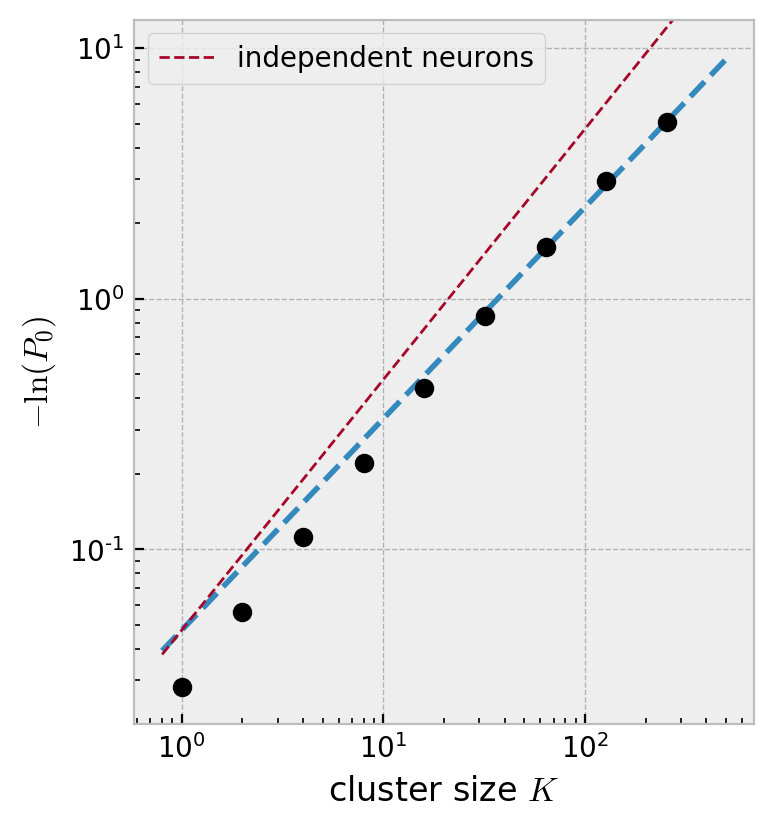
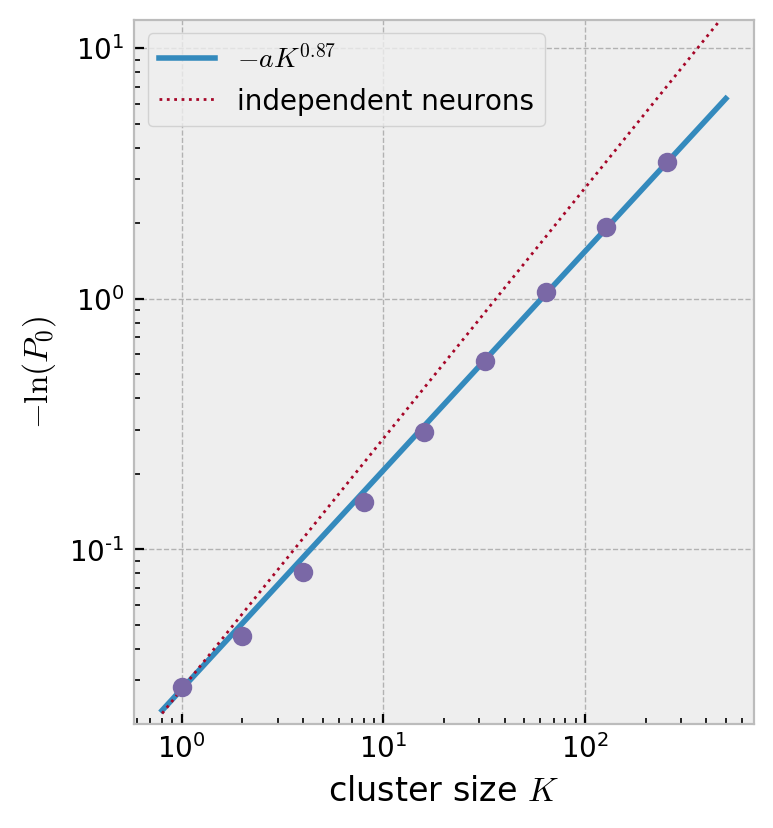
Update README.md

diff --git a/Notebook.md b/Notebook.md
@@ -1,9 +1,11 @@
 
 
 ```python
+import matplotlib
 import matplotlib.pyplot as plt
 import numpy as np
 from scipy.optimize import curve_fit
+import json
 
 plt.style.use('bmh')
 plt.rcParams["figure.figsize"] = (6/1.5,7/1.5)
@@ -44,13 +46,14 @@ for index in range(5,8):
         eigen_vals[jdex][...] = sorted_eigenvals_for_cluster(data, cluster)
     
     eig_vals_mean = np.mean(eigen_vals, axis=0)
-    eig_vals_err = np.std(eigen_vals, axis=0)
+    eig_vals_err = np.std(eigen_vals, axis=0, ddof=1)
         
     x = np.arange(1, len(eig_vals_mean) + 1) / (2**index)
     plt.errorbar(x, eig_vals_mean, yerr=eig_vals_err, fmt='o', markersize=1, elinewidth=0.5, label="$K={}$".format(2**index))
 
 plt.yscale('log')
 plt.xscale('log')
+plt.xlim(10**-2, 10**-.5)
 plt.xlabel('$\mathrm{rank} / K$')
 plt.ylabel('eigenvalue')
 plt.title('Scaling of eigenvalues in covariance spectra')
@@ -123,17 +126,17 @@ popt, perr
 
 
 
-    (array([ 0.84413494, -0.04748481]), array([[2.46931359e-04, 6.13654543e-05],
-            [6.13654543e-05, 1.54239868e-05]]))
+    (array([ 0.87347328, -0.02761152]), array([[3.21897073e-05, 4.66723522e-06],
+            [4.66723522e-06, 6.83818876e-07]]))
 
 
 
 
 ```python
 x = np.linspace(.8, 500, 100)
-plt.plot(x, f(x, *popt), '--')
-plt.plot(x, f(x, 1.0, popt[1]), '--', linewidth=1, label="independent neurons")
-plt.errorbar(cluster_sizes, neg_log(p_zero), fmt='ko')
+plt.plot(x, f(x, *popt), 'C0-', label="$-a K^{{{:.2}}}$".format(popt[0]))
+plt.plot(x, f(x, 1.0, popt[1]), 'C1:', linewidth=1, label="independent neurons")
+plt.errorbar(cluster_sizes, neg_log(p_zero), fmt='C2o')
 plt.yscale('log')
 plt.xscale('log')
 plt.ylim(.02, 13)
@@ -149,18 +152,6 @@ plt.show()
 
 
 ```python
-popt
-```
-
-
-
-
-    array([ 0.84413494, -0.04748481])
-
-
-
-
-```python
 matrix = neurenorm.compute_correlation_coefficients(rdata[5])
 matrix = np.abs(matrix - np.identity(len(matrix)))
 plt.imshow(matrix, interpolation='nearest')
@@ -168,5 +159,79 @@ colorbar = plt.colorbar(ticks = [])
 ```
 
 
-![png](Notebook_files/Notebook_14_0.png)
+![png](Notebook_files/Notebook_13_0.png)
+
+
+
+```python
+regions_filename = './consensus_regions.json' # for other files change path accordingly
+with open(regions_filename) as f:
+    regions = json.load(f)
+
+dims = [0,0]
+for s in regions:
+    max_x = np.max(np.array(s['coordinates'])[:,0])
+    max_y = np.max(np.array(s['coordinates'])[:,1])
+    dims[0] = max_x if max_x > dims[0] else dims[0]
+    dims[1] = max_y if max_y > dims[1] else dims[1]
+dims = (dims[0] + 1, dims[1] + 1)    
+
+def tomask(coords):
+    coords = np.array(coords)
+    mask = np.zeros(dims)
+    mask[coords.T[0], coords.T[1]] = 1
+    return mask
+
+masks = np.array([tomask(s['coordinates']) for s in regions])
+```
+
+
+```python
+def cluster_with_color(cluster, masks, color, alpha=None):
+    color = matplotlib.colors.to_rgba_array(color, alpha)[0]
+    cluster_im = np.sum(masks[cluster], axis=0)
+    s = cluster_im.shape
+    rgb_im = np.zeros((s[0], s[1], color.shape[0]))
+    rgb_im[cluster_im > 0] = color
+    return rgb_im
+```
+
+
+```python
+# show the outputs
+fig, ax = plt.subplots(nrows=1, ncols=1)
+ax.set_facecolor('black')
+
+
+background = cluster_with_color(np.arange(len(masks)), masks, 'C9', 0.5)
+plt.imshow(background)
+for cluster_index in range(9):
+    color = 'C{}'.format(cluster_index % 9)
+    cluster = clusterings[2].T[cluster_index]
+    im = cluster_with_color(cluster, masks, color, 0.8)
+    plt.imshow(im)
+    
+plt.show()
+```
+
+
+![png](Notebook_files/Notebook_16_0.png)
+
+
+
+```python
+masks[0]
+```
+
+
+
+
+    array([[0., 0., 0., ..., 0., 0., 0.],
+           [0., 0., 0., ..., 0., 0., 0.],
+           [0., 0., 0., ..., 0., 0., 0.],
+           ...,
+           [0., 0., 0., ..., 0., 0., 0.],
+           [0., 0., 0., ..., 0., 0., 0.],
+           [0., 0., 0., ..., 0., 0., 0.]])
+
 

diff --git a/README.md b/README.md
@@ -9,3 +9,23 @@ Usage:
 - Look at `Notebook.ipynb` to see plots, etc. The notebook assumes a file named `data.tif` to exist at the working directory.
 - `neurenorm.py` contains the main code.
 - `test.py` contains tests that the code is working as intended.
+
+The pixel size of the images is 814 × 788.
+
+The data and code are partially inspired by
+
+    @article{giovannucci2019caiman,
+      title={CaImAn: An open source tool for scalable Calcium Imaging data Analysis},
+      author={Giovannucci, Andrea and Friedrich, Johannes and Gunn, Pat and Kalfon, Jeremie and Brown, Brandon L and Koay, Sue Ann and Taxidis, Jiannis and Najafi, Farzaneh and Gauthier, Jeffrey L and Zhou, Pengcheng and Khakh, Baljit S and Tank, David W and Chklovskii, Dmitri B and Pnevmatikakis, Eftychios A},
+      journal={eLife},
+      volume={8},
+      pages={e38173},
+      year={2019},
+      publisher={eLife Sciences Publications Limited}
+    }
+
+
+# What to do
+- Make a fit for the rank plot (see how the critical exponents change for random clustering)
+- Try to cluster neighbouring neurons (disregarding correlations)
+- reproduce the author's final plot
